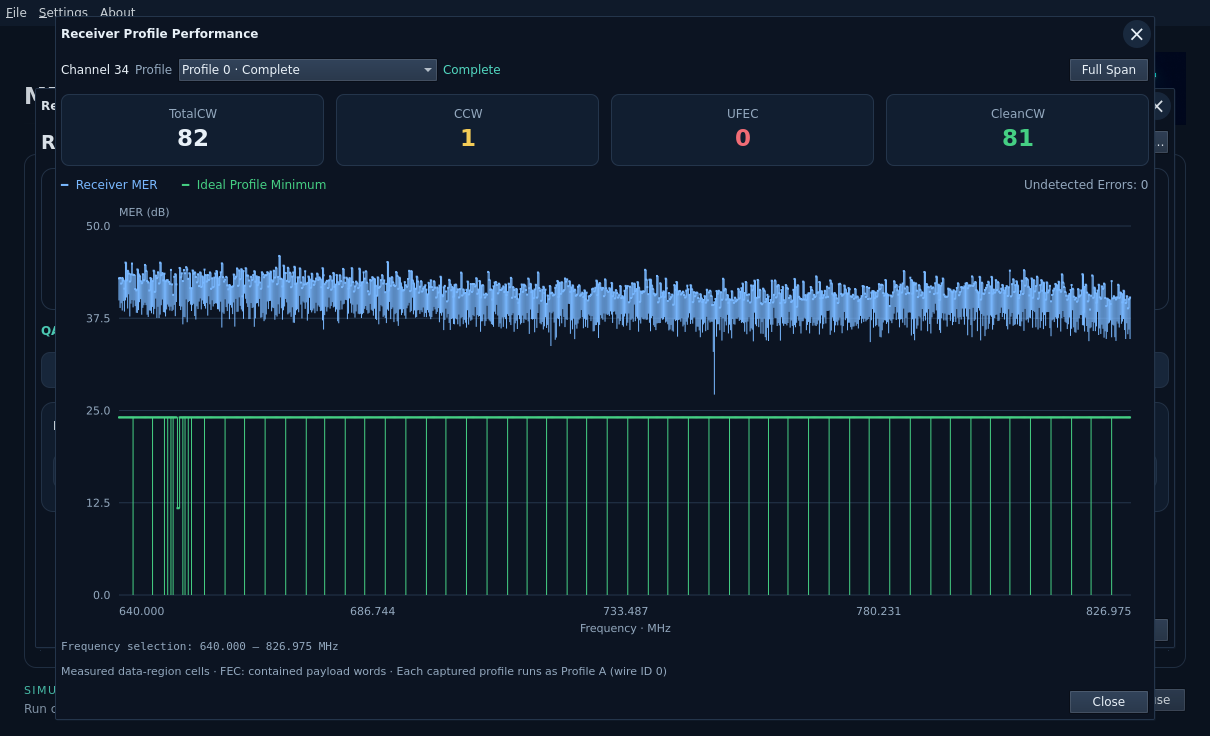
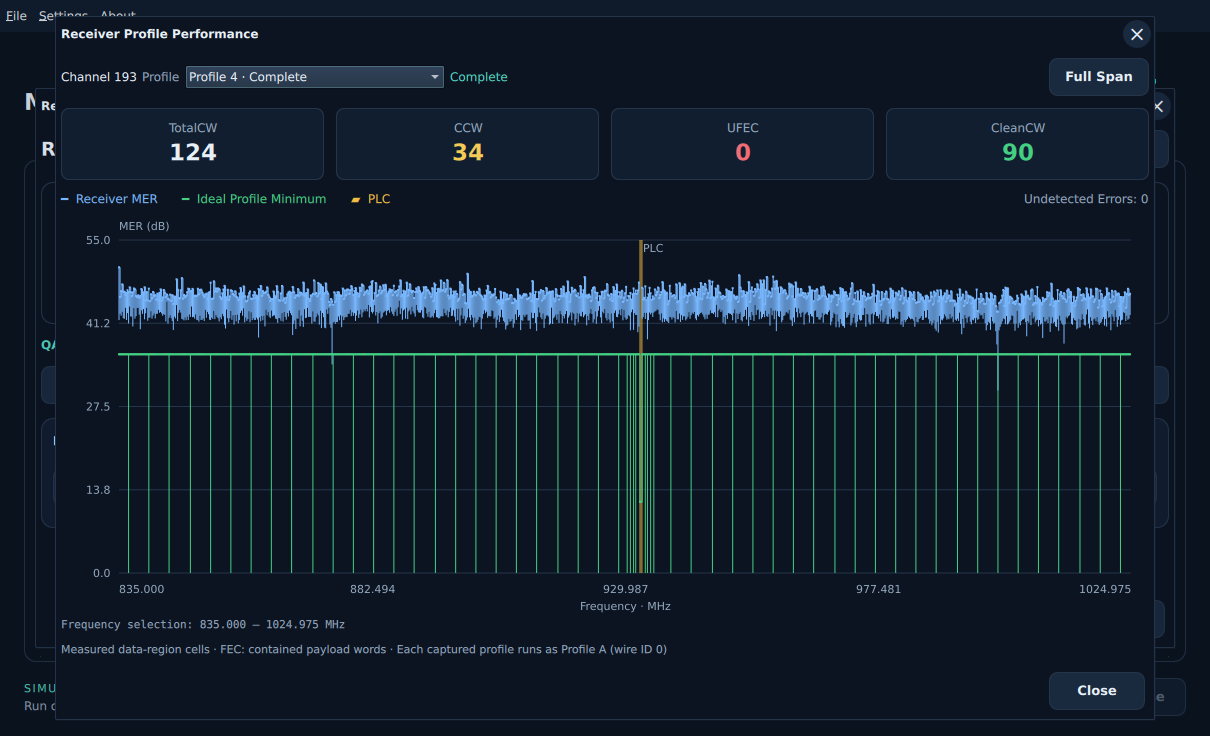
Feature: Shade PLC in receiver performance plots - Use the selected result profile's PLC region - Preserve curves, counters and zoom behavior - Update documentation and native screenshots - Tests: 81 adapter and 74 QML checks passed - Tests: Verify native dark and light rendering

diff --git a/apps/qt/qml/inputs/profile_input/ProfileChart.qml b/apps/qt/qml/inputs/profile_input/ProfileChart.qml
@@ -44,6 +44,16 @@ ColumnLayout {
                 ctx.fillText(tick.label,left+tick.x*w,height-20)
             }
             ctx.textAlign = "center"; ctx.fillText("Frequency · MHz",left+w/2,height-3)
+            for (const band of chart.viewport.bands || []) {
+                const first=left+band.first*w, last=left+band.last*w
+                ctx.fillStyle=Qt.rgba(0.95,0.74,0.25,0.24)
+                ctx.fillRect(first,top,Math.max(1,last-first),h)
+                ctx.strokeStyle=Qt.rgba(0.95,0.74,0.25,0.75)
+                ctx.beginPath();ctx.moveTo(first,top);ctx.lineTo(first,top+h)
+                ctx.moveTo(last,top);ctx.lineTo(last,top+h);ctx.stroke()
+                ctx.fillStyle=chart.theme.muted;ctx.textAlign="left"
+                ctx.fillText(band.label,Math.min(first+3,left+w-25),top+12)
+            }
             for (const series of chart.viewport.series || []) {
                 ctx.strokeStyle = chart.profileColor(series.id); ctx.fillStyle = ctx.strokeStyle
                 let previous = null

diff --git a/apps/qt/qml/instruments/profile_performance/ProfilePerformanceDialog.qml b/apps/qt/qml/instruments/profile_performance/ProfilePerformanceDialog.qml
@@ -61,6 +61,7 @@ WorkbenchDialog {
             Layout.fillWidth: true; spacing: 24
             Label { text: "━  Receiver MER"; color: dialog.theme.dark ? "#79b8ff" : "#2563b9" }
             Label { text: "━  Ideal Profile Minimum"; color: dialog.theme.dark ? "#45cf83" : "#187344" }
+            Label { text: "▰  PLC"; color: dialog.theme.dark ? "#f2bd40" : "#946a08"; visible: (dialog.viewport.bands || []).length>0 }
             Item { Layout.fillWidth: true }
             Label { text: "Undetected Errors: " + (dialog.viewport.fec ? dialog.viewport.fec.undetected_errors : "—"); color: dialog.theme.muted }
         }

diff --git a/apps/qt/src/instruments/receiver/performance.rs b/apps/qt/src/instruments/receiver/performance.rs
@@ -17,6 +17,7 @@ struct Point {
     mer: Option<f64>,
     ideal: Option<f64>,
     samples: u64,
+    plc: bool,
 }
 struct Entry {
     id: u8,
@@ -86,6 +87,7 @@ pub(crate) fn retain(profile: &CapturedProfile, result: &ResultData) {
                     .expect("Validated captured grid"),
                 mer: mer.and_then(|m| m.mer_db()),
                 samples: mer.map_or(0, |m| m.samples()),
+                plc: a.carrier_type == CarrierType::Plc,
                 ideal: if matches!(
                     a.carrier_type,
                     CarrierType::Data | CarrierType::ContinuousPilot | CarrierType::Plc
@@ -167,12 +169,28 @@ pub(crate) fn view(id: i32, start: i32, count: i32) -> Value {
             series.push(json!({"id":if ideal {0}else{1},"points":points}));
         }
         json!({"available":true,"profiles":profiles,"profile_id":entry.id,"channel":entry.channel,"status":entry.status,"fec":entry.fec,"ber":entry.ber,"unrecovered":entry.pending,"error":entry.error,
-            "total":total,"start":start,"count":count,"points":[{"x":0},{"x":1}],"series":series,"lanes":[],"markers":[],"axis_label":"MER (dB)",
+            "total":total,"start":start,"count":count,"points":[{"x":0},{"x":1}],"series":series,"bands":plc_bands(&entry.points,start,end),"lanes":[],"markers":[],"axis_label":"MER (dB)",
             "samples":entry.points.iter().map(|p|p.samples).sum::<u64>(),"scope":"Measured data-region cells · FEC: contained payload words · Each captured profile runs as Profile A (wire ID 0)",
             "summary":format!("Frequency selection: {:.3} – {:.3} MHz",f64::from(first)/1e6,f64::from(last)/1e6),
             "x_ticks":(0..=4).map(|i|json!({"x":f64::from(i)/4.0,"label":format!("{:.3}",(f64::from(first)+f64::from(i)/4.0*f64::from(last-first))/1e6)})).collect::<Vec<_>>(),
             "y_ticks":(0..=4).map(|i|json!({"x":f64::from(i)/4.0,"label":format!("{:.1}",maximum-f64::from(i)/4.0*(maximum-minimum))})).collect::<Vec<_>>()})
     })
+}
+
+// Coordinates use original carrier centers, independently of curve decimation.
+fn plc_bands(points: &[Point], start: usize, end: usize) -> Value {
+    let mut carriers = points.iter().enumerate().filter(|(_, point)| point.plc);
+    let Some((first, _)) = carriers.next() else {
+        return json!([]);
+    };
+    let last = carriers.next_back().map_or(first, |(index, _)| index);
+    if start >= end || last < start || first >= end {
+        return json!([]);
+    }
+    let denominator = (end - start - 1).max(1) as f64;
+    let left = (first.saturating_sub(start) as f64 / denominator).min(1.0);
+    let right = (last.saturating_sub(start) as f64 / denominator).min(1.0);
+    json!([{"first":left,"last":right,"label":"PLC"}])
 }
 
 /// Reads one bounded retained FEC summary without selecting other instruments.
@@ -222,4 +240,48 @@ pub(crate) fn fec_view(id: i32) -> Value {
         result["profiles"] = json!(profiles);
         result
     })
+}
+
+#[cfg(test)]
+mod tests {
+    use super::*;
+
+    #[test]
+    fn plc_band_uses_selected_profile_centers_and_clips_without_decimation() {
+        let mut points: Vec<_> = (0..101)
+            .map(|index| Point {
+                hz: 100_000_000 + index * 25_000,
+                mer: None,
+                ideal: None,
+                samples: 0,
+                plc: index == 10 || index == 20,
+            })
+            .collect();
+        assert_eq!(
+            plc_bands(&points, 0, 101),
+            json!([{"first":0.1,"last":0.2,"label":"PLC"}])
+        );
+        assert_eq!(
+            plc_bands(&points, 15, 26),
+            json!([{"first":0.0,"last":0.5,"label":"PLC"}])
+        );
+        assert_eq!(
+            plc_bands(&points, 11, 20),
+            json!([{"first":0.0,"last":1.0,"label":"PLC"}])
+        );
+        assert_eq!(plc_bands(&points, 30, 40), json!([]));
+        assert_eq!(
+            plc_bands(&points, 20, 21),
+            json!([{"first":0.0,"last":0.0,"label":"PLC"}])
+        );
+        for point in &mut points {
+            point.plc = false;
+        }
+        assert_eq!(plc_bands(&points, 0, 101), json!([]));
+        points[50].plc = true;
+        assert_eq!(
+            plc_bands(&points, 0, 101),
+            json!([{"first":0.5,"last":0.5,"label":"PLC"}])
+        );
+    }
 }

diff --git a/docs/development/features/profile-performance/design.md b/docs/development/features/profile-performance/design.md
@@ -179,3 +179,25 @@ undetected errors. The current dark screenshot is in the linked
 [user guide](../../../user/receiver-profile-performance.md). Native diagnostics
 were empty. The latest Qt executable is built. No commit, tag, push, installer
 publication or installed-package update was performed.
+
+## UI-RX-PERF-02: PLC region on performance plots
+
+Retain each assignment's PLC role beside the bounded performance points. Rust
+derives one continuous first-to-last PLC band for the selected result, clipped
+to the original-grid viewport. QML paints a translucent gold band behind both
+curves using the established measurement-plot style. No PLC is inferred from
+MER or the current applied profile. Missing PLC and nonoverlapping zooms show
+no band. Preserve counters, curves and navigation. Test disjoint assignments,
+clipping, profile independence and a one-point viewport; run Qt checks, rebuild
+and refresh the native dark performance screenshot.
+
+Validation: Qt formatting, warnings-denied Clippy, all 81 adapter tests
+(60.34s), native build and all 74 QML checks (11.757s) passed. Native VM
+verification used the existing captured channel-193 workbench with actual
+three-profile simulation results. The final profile completed with 124 TotalCW,
+34 CCW, 90 CleanCW, 0 UFEC and 0 undetected errors. First-to-last shading
+rendered at full span and after drag zoom in both dark/light themes. Refreshed
+the full-span guide capture and added a zoomed dark capture. Native diagnostics
+were empty. The isolated review process was closed without saving WB changes.
+The first Clippy attempt flagged test-module placement; it was corrected before
+the successful full check. Engine, MER and counter calculations are unchanged.

diff --git a/docs/user/receiver-profile-performance.md b/docs/user/receiver-profile-performance.md
@@ -50,6 +50,11 @@ flowchart LR
   `10 log10(2^bits − 1)`, including captured pilot/PLC reference dips. It is not
   a normative DOCSIS receiver requirement.
   Use DPD's View Profile window for the separate bit-loading view.
+- **Gold shading — PLC:** one continuous region from the selected result’s
+  first to last PLC carrier, including the carriers between them. It uses that
+  run’s modulation profile and clips when zoomed. At full span a narrow PLC
+  region can look like a line; zoom in to see its width. The shading does not
+  change measured MER, ideal reference values or FEC counters.
 - **Frequency:** the original capture grid in MHz. Scroll to zoom, drag to select
   a range and use **Full Span** to restore it. Hover for bounded group extrema.
   Missing readings stay gaps; exact zero-error comparisons have no finite dB
@@ -87,3 +92,7 @@ See [Receiver Workbench](receiver-workbench.md),
 [FEC counter model](simulation/fec-counters.md),
 [FEC and MER Rust APIs](../reference/public-api.md) and
 [closed-loop controls](closed-loop-workbench.md).
+
+Zooming into PLC makes its narrow first-to-last region easier to see:
+
+![Receiver performance with PLC zoom](../images/workbench/receiver-profile-performance-plc-zoom-dark.png)

diff --git a/docs/architecture.md b/docs/architecture.md
@@ -1884,7 +1884,9 @@ closed-loop experiment, resetting source/receiver/noise/playback state under
 identical configured conditions and seeds. It does not switch profiles mid-run.
 Receiver Profile Performance combines measured post-equalization MER,
 ideal profile minimum MER and per-profile TotalCW/CCW/UFEC counters, with bounded
-instrument retention and independent source verification. The reusable FecCounters type owns private counters and exposes getters and
+instrument retention and independent source verification. Retained assignment
+roles define a first-to-last PLC band; the Qt Rust adapter clips it to the
+requested viewport and QML paints it behind both curves. The reusable FecCounters type owns private counters and exposes getters and
 copyable snapshots. CCW includes actual LDPC hard-decision changes and BCH
 corrections, while source mismatches remain independently reported. See the
 [profile performance design](development/features/profile-performance/design.md).

diff --git a/docs/development/checklist.md b/docs/development/checklist.md
@@ -1009,6 +1009,9 @@ See [setup](setup.md) and [design](features/development-setup/design.md).
   including LDPC-only correction evidence and observation-window semantics.
 - [x] **UI-RX-PERF-01** Add Receiver Profile Performance: measured MER and ideal
   profile minimum MER overlay, profile selection and matching FEC counters.
+- [x] **UI-RX-PERF-02** Shade the selected result’s first-to-last PLC region
+  behind both curves, clipping to the viewport. All 81 adapter and 74 QML
+  checks pass; native dark/light and zoom verified with real run results.
 
 [Design](features/profile-performance/design.md). Core, Qt and native VM
 validation are complete; the user guide includes the current dark capture.
